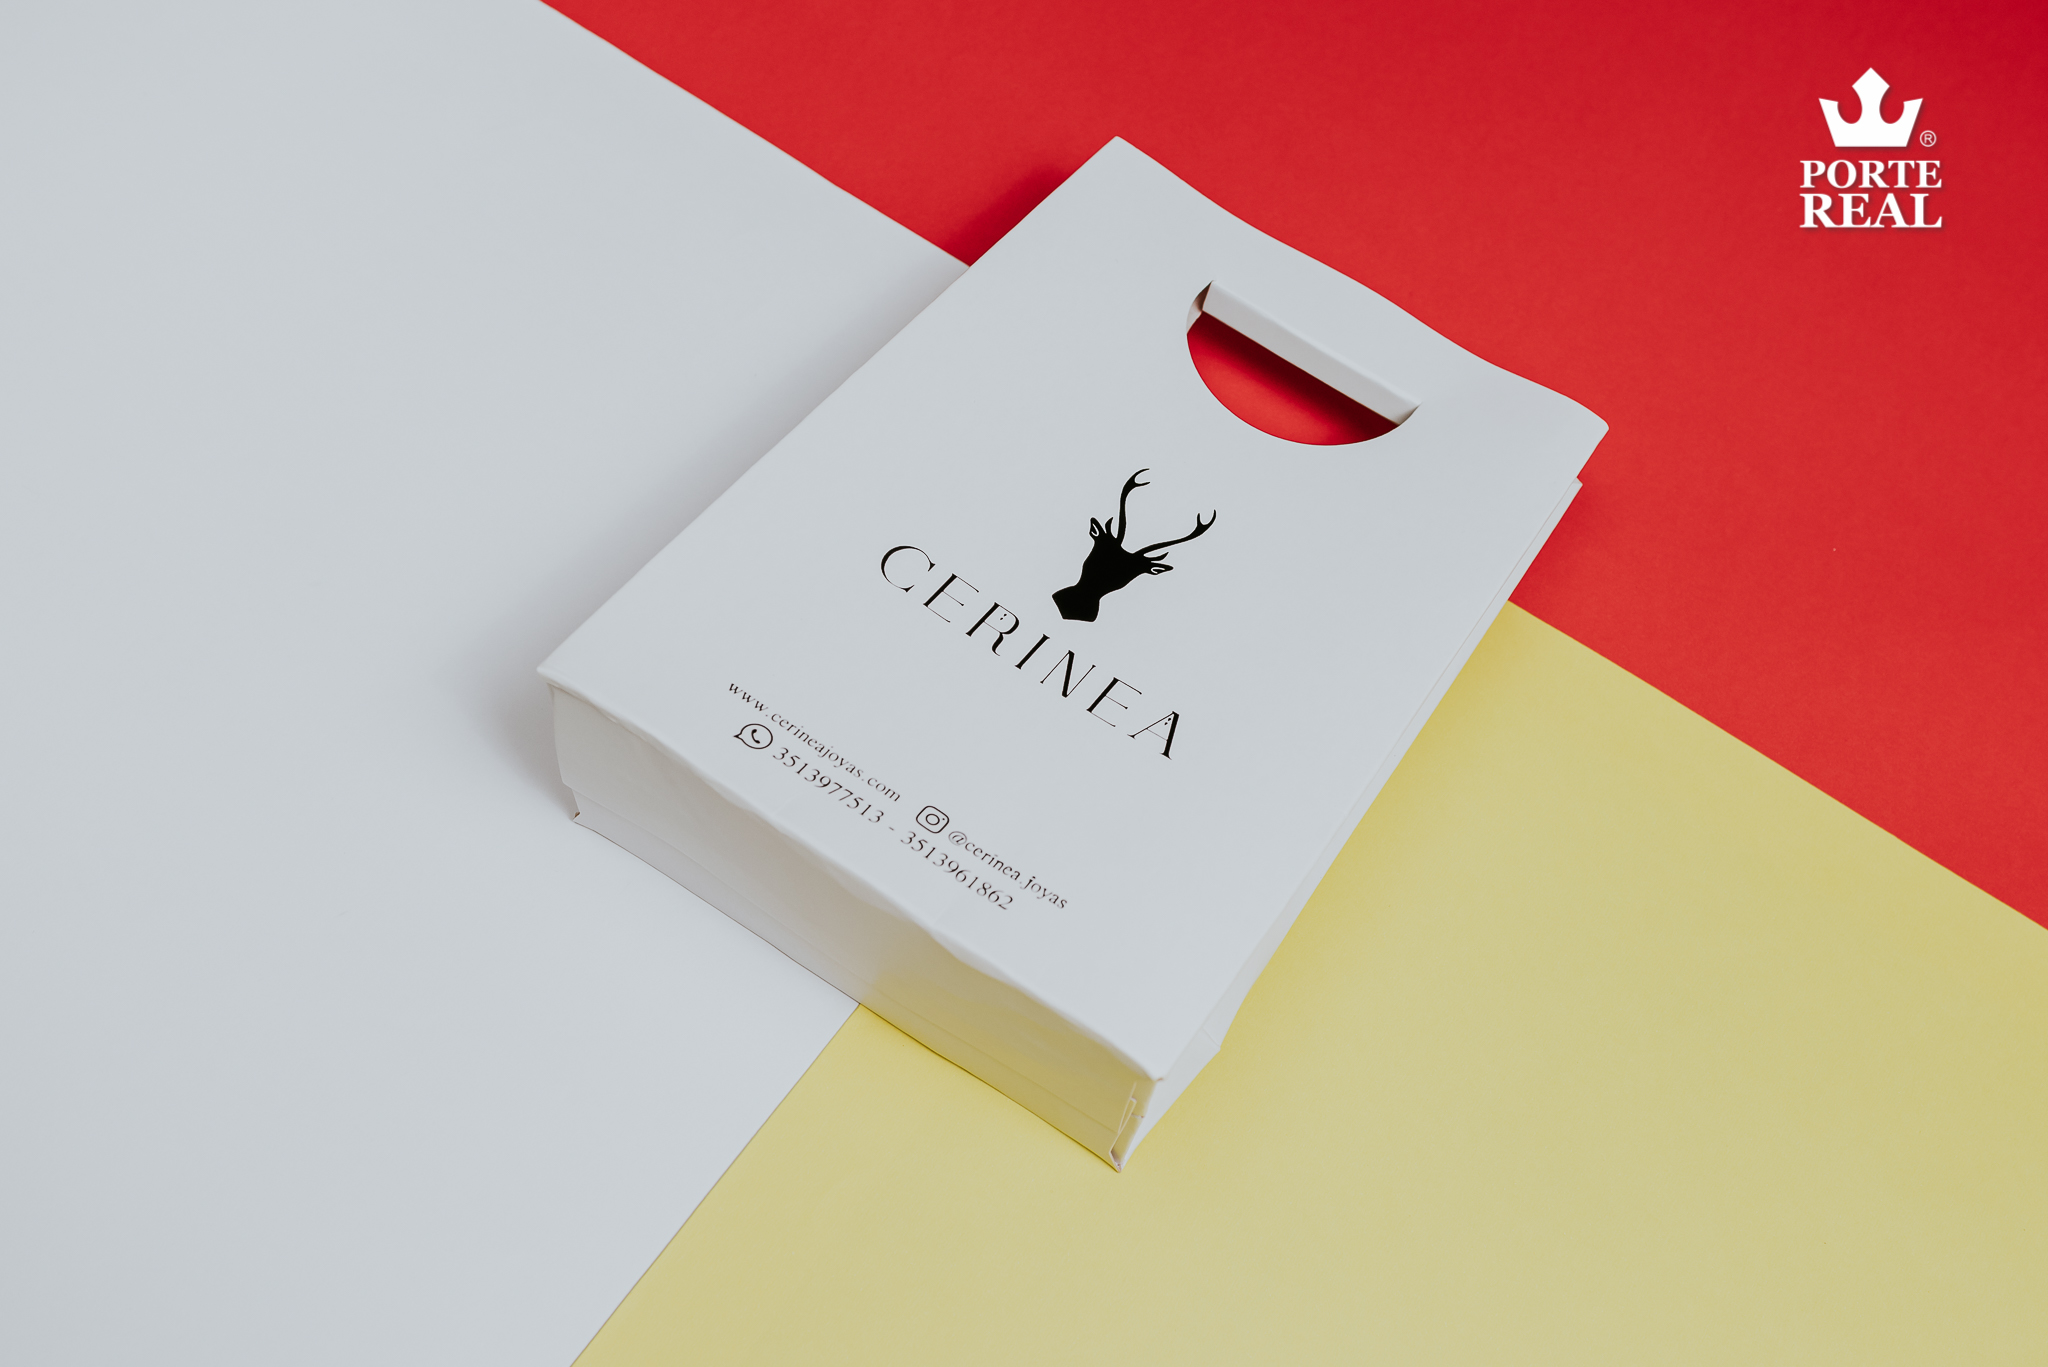
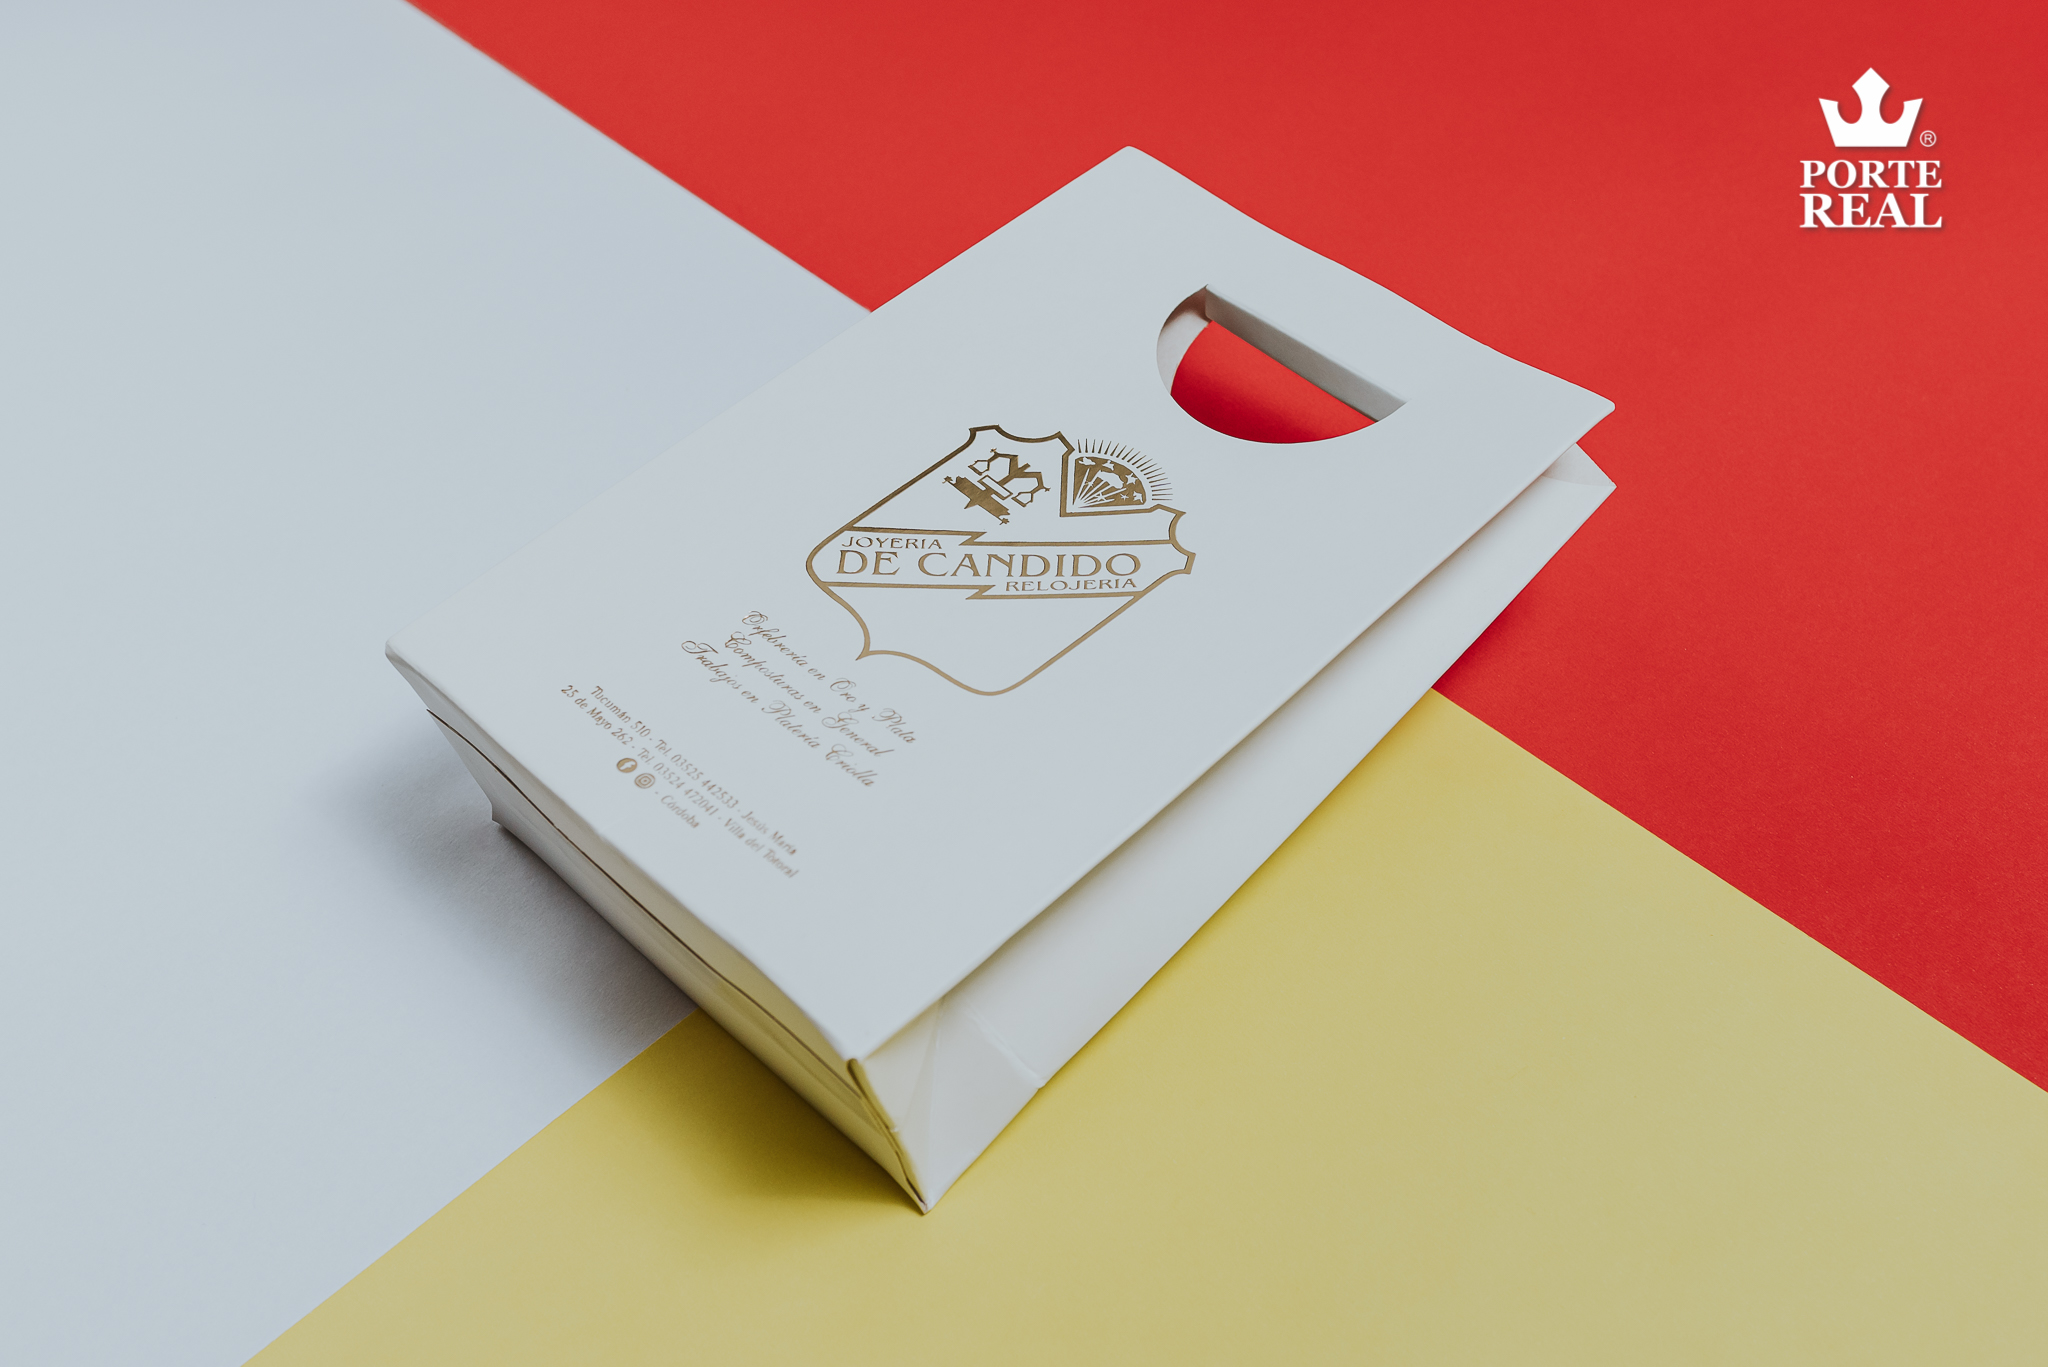
Changing some images

diff --git a/bolsasSobresP.html b/bolsasSobresP.html
@@ -130,25 +130,22 @@
         <div id="carouselExampleControls5" class="carousel slide" data-bs-ride="carousel">
           <div class="carousel-inner">
             <div class="carousel-item active">
-              <img src="imagenes/sybpersonalizados/bunoPuno.jpg" alt="bolsas personalizadas color rojo de Luna Nueva">
+              <img src="imagenes/sybpersonalizados/bunoPtres.jpg" alt="bolsas personalizadas color blanco de Vizzoni Joyas">
             </div>
             <div class="carousel-item">
               <img src="imagenes/sybpersonalizados/bunoPdos.jpg" alt="bolsas personalizadas color negro de Rodolfo Villani">
             </div>
             <div class="carousel-item">
-              <img src="imagenes/sybpersonalizados/bunoPtres.jpg" alt="bolsas personalizadas color blanco de Vizzoni Joyas">
+              <img src="imagenes/sybpersonalizados/bunoPuno.jpg" alt="bolsas personalizadas color rojo de Luna Nueva">
             </div>
             <div class="carousel-item">
-              <img src="imagenes/sybpersonalizados/bunoPcuatro.jpg" alt="bolsas personalizadas color azul de W. Segado">
-            </div>
-            <div class="carousel-item">
-              <img src="imagenes/sybpersonalizados/bunoPcinco.jpg" alt="bolsas personalizadas color blanco de Cerinea">
+              <img src="imagenes/sybpersonalizados/bunoPcinco.jpg" alt="bolsas personalizadas color blanco de Joyeria de Candido">
             </div>
             <div class="carousel-item">
               <img src="imagenes/sybpersonalizados/bunoPseis.jpg" alt="bolsas personalizadas color blanco de Eterea Joyas">
             </div>
             <div class="carousel-item">
-              <img src="imagenes/sybpersonalizados/bunoPsiete.jpg" alt="bolsas personalizadas color negro de Agema Joyas">
+              <img src="imagenes/sybpersonalizados/bunoPsiete.jpg" alt="bolsas personalizadas color negro de Maum Joyas">
             </div>
 
           </div>
@@ -199,16 +196,13 @@
 
         <div id="carouselExampleControls7" class="carousel slide" data-bs-ride="carousel">
           <div class="carousel-inner">
-            <div class="carousel-item active">
-              <img src="imagenes/sybpersonalizados/munoPuno.jpg" alt="bolsas personalizadas color beige de Eugenia Soto">
-            </div>
             <div class="carousel-item">
               <img src="imagenes/sybpersonalizados/munoPdos.jpg" alt="bolsas personalizadas color negro de Triana Joyas">
             </div>
             <div class="carousel-item">
               <img src="imagenes/sybpersonalizados/munoPtres.jpg" alt="bolsas personalizadas color blanco de Dulce Maria">
             </div>
-            <div class="carousel-item">
+            <div class="carousel-item active">
               <img src="imagenes/sybpersonalizados/munoPcuatro.jpg" alt="bolsas personalizadas color blanco de Eugenia Soto">
             </div>
           </div>

diff --git a/varios.html b/varios.html
@@ -110,9 +110,9 @@
 
                 <p>Ofrecemos también una gama de productos complementarios, que siempre deberías tener a mano para acompañar al resto de tu packaging, y darles a tus clientes una experiencia completa y amplia, que contengan y protejan tus joyas y accesorios, y les aporten un verdadero valor agregado.</p>
 
-                <p>Podes elegir desde etiquetas universales con distintas inscripciones, pasando por los porta aros, que son ideales para presentar éste tipo de joyas pequeñas, realizados en cartulina laminada mate con impresión stamping brillante bajo relieve; podés optar entre modelos universales con distintas inscripciones de metales, ó personalizados con tu logo. </p>
+                <p>Podes elegir desde etiquetas universales con distintas inscripciones, pasando por los porta aros, que son ideales para presentar éste tipo de joyas pequeñas, realizados en cartulina laminada mate con impresión stamping brillante bajo relieve. Podés optar entre modelos universales con distintas inscripciones de metales ó personalizados con tu logo. </p>
 
-                <p>Y Por último, para darle un cierre ideal a tu packaging, los moños metalizados constituyen un accesorio fundamental, agregandole brillo, color y conquistando las miradas de todos tus clientes.</p>
+                <p>Además, para darle un cierre ideal a tu packaging, los moños metalizados constituyen un accesorio fundamental, agregandole brillo, color y conquistando las miradas de todos tus clientes.</p>
 
             </div>
 
@@ -210,7 +210,7 @@
         </div>
 
         <a name="mM"></a>
-        <h3>Moños <b>MM</b> metalizados de facil armado</h3>
+        <h3>Moños <b>MM</b> metalizados de fácil armado</h3>
 
         <div id="carouselExampleControls6" class="carousel slide" data-bs-ride="carousel">
             <div class="carousel-inner">

diff --git a/estuchesP.html b/estuchesP.html
@@ -141,7 +141,7 @@
               <img src="imagenes/epersonalizados/adcuatro.jpg" alt="estuche personalizado color blanco de Bendita Yo">
             </div>
             <div class="carousel-item">
-              <img src="imagenes/epersonalizados/aduno.jpg" alt="estuche personalizado color negro de Joyas Nuestras">
+              <img src="imagenes/epersonalizados/aduno.jpg" alt="estuche personalizado color negro de AB Joyas">
             </div>
             <div class="carousel-item">
               <img src="imagenes/epersonalizados/adseis.jpg" alt="estuche personalizado color blanco de Cleopatra Joyas">
@@ -253,13 +253,13 @@
               <img src="imagenes/epersonalizados/putres.jpg" alt="estuche personalizado color blanco de Alicia Dore">
             </div>
             <div class="carousel-item">
-              <img src="imagenes/epersonalizados/pucuatro.jpg" alt="estuche personalizado color negro de Joyas Nuestras">
+              <img src="imagenes/epersonalizados/pucinco.jpg" alt="estuche personalizado color rojo de Morello Joyas">
             </div>
             <div class="carousel-item">
-              <img src="imagenes/epersonalizados/pucinco.jpg" alt="...">
+              <img src="imagenes/epersonalizados/pucuatro.jpg" alt="estuche personalizado color blanco de Alma Mia">
             </div>
             <div class="carousel-item">
-              <img src="imagenes/epersonalizados/puseis.jpg" alt="estuche personalizado color rojo de Morello">
+              <img src="imagenes/epersonalizados/puseis.jpg" alt="estuche personalizado color negro de Piedras Argentinas">
             </div>
           </div>
           <button class="carousel-control-prev" type="button" data-bs-target="#carouselExampleControls4"

diff --git a/bolsasSobresU.html b/bolsasSobresU.html
@@ -112,8 +112,8 @@
         <h3>Destacá tus productos!</h3>
 
         <p>Las bolsas y sobres son un complemento que no pueden faltar para tus joyas y accesorios, acompañan al resto
-          del packaging y representa la parte más visible de tu presentación. Es tu oportunidad ideal a la hora de
-          diferenciarte de la competencia y que todos tus clientes estén satisfechos.</p>
+        del packaging y representan la parte más visible de tu presentación. Es tu oportunidad ideal a la hora de
+        diferenciarte de la competencia y que todos tus clientes estén satisfechos.</p>
 
         <p>Podés elegir entre bolsas de cartulina laminadas en mate, y sobres de papel obra con o sin cordón. Tenemos
           también otras opciones como los sobres almohadas.</p>
@@ -150,10 +150,10 @@
 
         <div id="carouselExampleControls6" class="carousel slide" data-bs-ride="carousel">
           <div class="carousel-inner">
-            <div class="carousel-item active">
+            <div class="carousel-item">
               <img src="imagenes/sybuniversales/bdosUuno.jpg" alt="bolsas universales grandes lisas sin cordon color rojo">
             </div>
-            <div class="carousel-item">
+            <div class="carousel-item active">
               <img src="imagenes/sybuniversales/bdosUdos.jpg" alt="bolsas universales grances lisas sin cordon color plateado">
             </div>
           </div>

diff --git a/exhibidores.html b/exhibidores.html
@@ -215,13 +215,13 @@
 
                 <div id="carouselExampleControls5" class="carousel slide" data-bs-ride="carousel">
                     <div class="carousel-inner">
-                      <div class="carousel-item active">
+                      <div class="carousel-item">
                         <img src="imagenes/exhibidor/sbnUno.jpg" alt="exhibidores y atalajes para pulseras color blanco y negro">
                       </div>
                       <div class="carousel-item">
                         <img src="imagenes/exhibidor/sbnDos.jpg" alt="exhibidor y atalaje para pulseras color blanco">
                       </div>
-                      <div class="carousel-item">
+                      <div class="carousel-item active">
                         <img src="imagenes/exhibidor/sbnTres.jpg" alt="exhibidor y atalaje para pulseras color negro">
                       </div>
                     </div>

diff --git a/estuchesU.html b/estuchesU.html
@@ -136,10 +136,7 @@
               <img src="imagenes/euniversales/adUdos.jpg" alt="estuche universal liso color blanco para anillos y aros">
             </div>
             <div class="carousel-item">
-              <img src="imagenes/euniversales/adUtres.jpg" alt="estuche universal liso color cebra para anillos y aros">
-            </div>
-            <div class="carousel-item">
-              <img src="imagenes/euniversales/adUcuatro.jpg" alt="estuches universals lisos colores varios para anillos y aros">
+              <img src="imagenes/euniversales/adUcuatro.jpg" alt="estuches universales lisos colores varios para anillos y aros">
             </div>
           </div>
           <button class="carousel-control-prev" type="button" data-bs-target="#carouselExampleControls1"

diff --git a/index.html b/index.html
@@ -139,7 +139,7 @@
                 <img src="imagenes/carousel/carouseldos.jpg" class="d-block w-100" alt="estuche para conjuntos color rojo de Paula Gonzalez">
               </div>
               <div class="carousel-item">
-                <img src="imagenes/carousel/carouseltres.jpg" class="d-block w-100" alt="bolsa personalizada color blancas de Cerinea">
+                <img src="imagenes/carousel/carouseltres.jpg" class="d-block w-100" alt="bolsa B2 personalizada y estuche PU color blancos de Pepo Rivero">
               </div>
               <div class="carousel-item">
                 <img src="imagenes/carousel/carouselcuatro.jpg" class="d-block w-100" alt="bolsas personalizadas color blancas de Dulce Maria">

diff --git a/css/style.css b/css/style.css
@@ -56,7 +56,7 @@ body {
   height: 100%;
   width: 100%;
   grid-template-columns: 100%;
-  grid-template-rows: 4.5% 0.5% 90.5% 7.4%;
+  grid-template-rows: 4.5% 0.5% 90.5% 7.5%;
   grid-template-areas: "header"
     "nav"
     "main"
